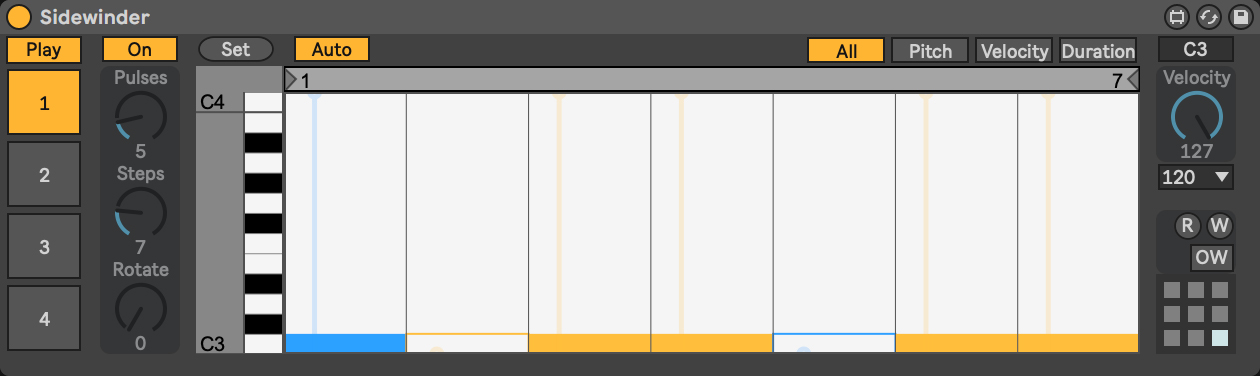
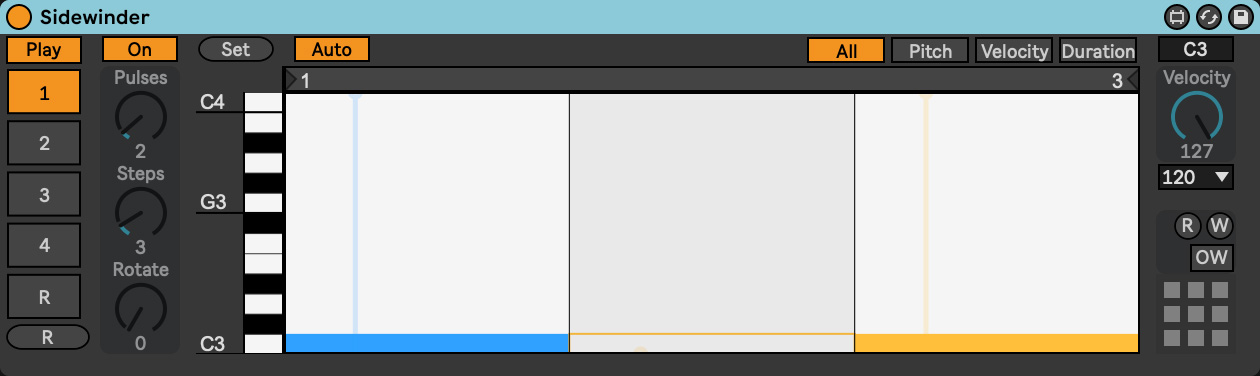
Update README (#20)
* Update screenshots

* Work on README

* Add a randomize screenshot

* Update README

diff --git a/README.md b/README.md
@@ -11,7 +11,9 @@ The [Euclidean algorithm](https://en.wikipedia.org/wiki/Euclidean_algorithm) com
 ### Global
 
 - **Play**: Toggle playback
-- Track Tabs: Select which track is displayed
+- **1-4 Tabs**: Select which track to display
+- **R Tab**: Display the randomize pan
+- **R**: Trigger randomize
 
 #### Presets
 
@@ -42,6 +44,18 @@ When **Auto** is on, making a change automatically updates the steps. When **Aut
 - Pitch: Set the pitch of the notes
 - **Velocity**: Set the velocity of the notes
 - **Duration**: Set the duration of the notes in DAW ticks. The duration can only be set to `7.5`, `15`, `30`, `60`, `120`, `240`, `480`, or `960`. This is limitation of the [`live.step`](https://docs.cycling74.com/max8/refpages/live.step) sequencer.
+
+### Randomize
+
+![Randomize](Randomize.png)
+
+* **1-4 Buttons:** Which tracks to randomize
+* **Pulses, Steps, Rotate, Velocity, Pitch:** Whether to randomize that parameter
+* **Inc:** Increment (or decrement) the value by the random amount instead of replacing it
+* **Min:** Minimum random amount
+* **Max:** Maximum random amount
+* For Pitch and Duration, the top number is the minimum and the bottom number is the maximum
+* **None, Random, Scramble:** Random randomizes all parameters, this overrides all other options. Scramble randomizes the note order.
 
 ## Installation
 
